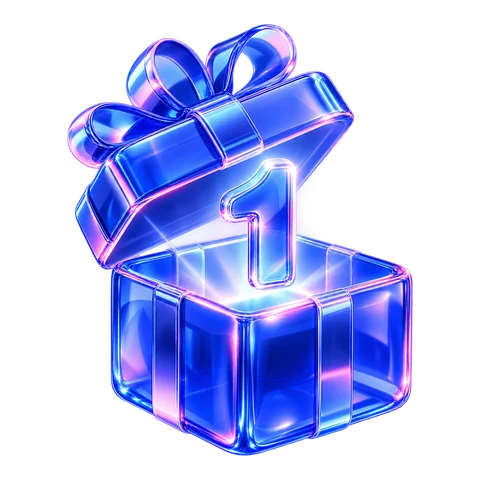
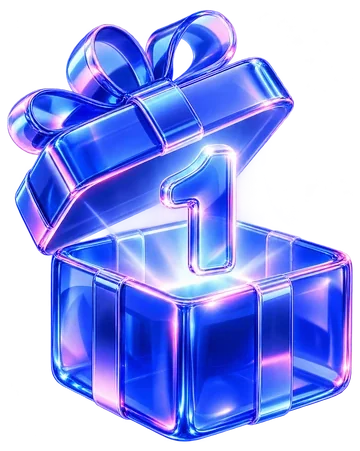
Opraviť viditeľnosť bočných kariet a zväčšiť 3D ikony (WebKit-safe)

diff --git a/public/app.css b/public/app.css
@@ -2064,8 +2064,8 @@ textarea {
    public/flow.js turns the ring a quarter turn on a click, an arrow key or a swipe. Without the script the four
    cards stand as a row; with reduced motion the turn is instant. */
 .offer {
-  --offer-w: clamp(300px, 24vw, 360px);
-  --offer-h: clamp(440px, 33vw, 480px);
+  --offer-w: clamp(320px, 27vw, 400px);
+  --offer-h: clamp(460px, 32vw, 500px);
   padding-top: clamp(64px, 7vw, 80px);
   background:
     radial-gradient(70% 56% at 50% 40%, var(--blue-soft) 0%, rgba(238, 240, 255, 0) 72%),
@@ -2104,7 +2104,6 @@ textarea {
 /* The ring's fixed height is only needed once the cards are absolutely placed in it. */
 .offer__stage--js .offer__ring {
   height: calc(var(--offer-h) + 40px);
-  perspective: 1500px;
 }
 
 .offer__track {
@@ -2120,18 +2119,25 @@ textarea {
   display: block;
 }
 
+/* Each deal has its own blue-violet hue; all stay in the same family. */
+.offer__card:nth-child(1) { --c1: #1024e0; --c2: #1d3df5; --c3: #2f6bff; }
+.offer__card:nth-child(2) { --c1: #1323d4; --c2: #1c2ef0; --c3: #5c27d6; }
+.offer__card:nth-child(3) { --c1: #1b1fd8; --c2: #3a2df0; --c3: #7a2be0; }
+.offer__card:nth-child(4) { --c1: #2a1fd0; --c2: #4a2ff0; --c3: #a92bb8; }
+
 .offer__card {
   position: relative;
   display: flex;
   flex-direction: column;
   min-height: var(--offer-h);
-  padding: 26px;
-  border-radius: 28px;
+  padding: 28px;
+  border-radius: 30px;
   color: #fff;
   background:
-    radial-gradient(130% 78% at 50% -12%, rgba(255, 255, 255, 0.24) 0%, rgba(255, 255, 255, 0) 55%),
-    radial-gradient(90% 70% at 100% 108%, rgba(255, 105, 140, 0.3) 0%, rgba(255, 105, 140, 0) 62%),
-    linear-gradient(158deg, #1323d4 0%, #1c2ef0 34%, #3a2df0 66%, #5c27d6 100%);
+    radial-gradient(130% 78% at 50% -12%, rgba(255, 255, 255, 0.26) 0%, rgba(255, 255, 255, 0) 55%),
+    radial-gradient(95% 72% at 100% 108%, rgba(255, 105, 150, 0.34) 0%, rgba(255, 105, 150, 0) 62%),
+    radial-gradient(80% 70% at 0% 104%, rgba(120, 90, 255, 0.28) 0%, rgba(120, 90, 255, 0) 62%),
+    linear-gradient(158deg, var(--c1, #1323d4) 0%, var(--c2, #1c2ef0) 40%, var(--c3, #5c27d6) 100%);
   box-shadow: 0 24px 56px -22px rgba(14, 22, 110, 0.45);
   overflow: hidden;
   cursor: pointer;
@@ -2144,7 +2150,7 @@ textarea {
   top: 50%;
   width: var(--offer-w);
   height: var(--offer-h);
-  will-change: transform, opacity, filter;
+  will-change: transform, opacity;
 }
 
 /* The hero in front glows a little brighter. */
@@ -2154,16 +2160,16 @@ textarea {
 
 .offer__badge {
   align-self: flex-start;
-  padding: 7px 16px;
+  padding: 9px 20px;
   border-radius: 999px;
-  background: rgba(255, 255, 255, 0.94);
+  background: rgba(255, 255, 255, 0.96);
   color: var(--blue-deep);
   font-family: var(--display);
   font-weight: 800;
-  font-size: 1.5rem;
+  font-size: 1.75rem;
   letter-spacing: -0.02em;
-  line-height: 1.15;
-  box-shadow: 0 10px 24px -10px rgba(8, 12, 90, 0.55);
+  line-height: 1;
+  box-shadow: 0 12px 28px -12px rgba(8, 12, 90, 0.6);
 }
 
 .offer__art {
@@ -2179,17 +2185,21 @@ textarea {
 .offer__art::before {
   content: '';
   position: absolute;
-  inset: -4%;
+  inset: -2%;
   border-radius: 50%;
-  background: radial-gradient(closest-side, rgba(255, 255, 255, 0.32), rgba(255, 255, 255, 0) 72%);
+  background:
+    radial-gradient(closest-side, rgba(255, 255, 255, 0.42), rgba(255, 255, 255, 0) 70%),
+    radial-gradient(closest-side, rgba(120, 160, 255, 0.3), rgba(120, 160, 255, 0) 78%);
 }
 
 .offer__img {
-  position: relative;
+  position: absolute;
+  inset: 0;
   z-index: 1;
-  width: clamp(180px, 66%, 250px);
-  height: auto;
-  filter: drop-shadow(0 30px 42px -18px rgba(6, 8, 60, 0.62));
+  width: 100%;
+  height: 100%;
+  object-fit: contain;
+  filter: drop-shadow(0 32px 46px -18px rgba(6, 8, 60, 0.6));
 }
 
 .offer__copy {
@@ -2199,10 +2209,10 @@ textarea {
 
 .offer__title {
   font-family: var(--display);
-  font-weight: 700;
-  font-size: clamp(1.5rem, 1.85vw, 1.8rem);
+  font-weight: 600;
+  font-size: clamp(1.5rem, 1.9vw, 1.9rem);
   line-height: 1.04;
-  letter-spacing: -0.02em;
+  letter-spacing: -0.025em;
   color: #fff;
   text-wrap: balance;
 }
@@ -2213,13 +2223,13 @@ textarea {
 
 .offer__title-accent {
   display: block;
-  margin-top: 0.1em;
-  font-size: 1.34em;
+  margin-top: 0.06em;
+  font-size: 1.55em;
   font-weight: 800;
   text-transform: uppercase;
-  letter-spacing: -0.01em;
-  line-height: 0.95;
-  color: #c7d5ff;
+  letter-spacing: -0.012em;
+  line-height: 0.9;
+  color: #bcd4ff;
 }
 
 .offer__text {
@@ -2313,8 +2323,8 @@ textarea {
 /* On a phone one dominant card sits in the middle; the neighbours peek from the edges. */
 @media (max-width: 720px) {
   .offer {
-    --offer-w: min(84vw, 340px);
-    --offer-h: clamp(392px, 104vw, 440px);
+    --offer-w: min(80vw, 340px);
+    --offer-h: clamp(410px, 108vw, 440px);
   }
   .offer__hint--desktop {
     display: none;

diff --git a/public/flow.js b/public/flow.js
@@ -81,12 +81,13 @@
   stage.classList.add('offer__stage--js')
 
   // The four places of the ring: 0 the front, 1 right, 2 the back, 3 left. x is the horizontal offset in card
-  // widths, s the scale, ry the tilt, o the opacity, z the stacking and f the brightness.
+  // widths, s the scale, o the opacity, z the stacking. The depth is a scale and a shadow, nothing 3D, so
+  // Chromium, Safari and Firefox all paint it alike.
   const PLACE = [
-    { x: 0, s: 1, ry: 0, o: 1, z: 40, f: 1 },
-    { x: 1, s: 0.84, ry: -18, o: 0.85, z: 30, f: 0.92 },
-    { x: 0, s: 0.72, ry: 0, o: 0, z: 10, f: 0.8 },
-    { x: -1, s: 0.84, ry: 18, o: 0.85, z: 30, f: 0.92 },
+    { x: 0, s: 1, o: 1, z: 40 },
+    { x: 0.96, s: 0.88, o: 0.9, z: 30 },
+    { x: 0, s: 0.78, o: 0, z: 10 },
+    { x: -0.96, s: 0.88, o: 0.9, z: 30 },
   ]
 
   // "Založenie s. r. o. zadarmo", the second card, opens in front.
@@ -98,10 +99,9 @@
     for (let i = 0; i < cards.length; i++) {
       const place = PLACE[((i - rotation) % 4 + 4) % 4]
       const card = cards[i]
-      card.style.transform = `translate(-50%, -50%) translateX(${(place.x * radius).toFixed(1)}px) rotateY(${place.ry}deg) scale(${place.s})`
+      card.style.transform = `translate(-50%, -50%) translateX(${(place.x * radius).toFixed(1)}px) scale(${place.s})`
       card.style.opacity = String(place.o)
       card.style.zIndex = String(place.z)
-      card.style.filter = place.f === 1 ? 'none' : `brightness(${place.f})`
       card.style.pointerEvents = place.o === 0 ? 'none' : ''
       card.setAttribute('aria-hidden', place.o === 0 ? 'true' : 'false')
       card.classList.toggle('offer__card--on', i === front)
@@ -110,7 +110,9 @@
   }
 
   const measure = () => {
-    radius = cards[0].offsetWidth * 0.86
+    // One card width of reach puts the side cards just outside the front card's edges, so the three cards
+    // stand together across most of the stage.
+    radius = cards[0].offsetWidth
     render()
   }
 

diff --git a/src/config.ts b/src/config.ts
@@ -218,6 +218,15 @@ export type ArtSlot =
 /** One of his glass objects, cut square at 960 and 480 px. */
 const glass = (name: string): Art => ({ src: `/art/${name}.webp`, alt: '', width: 960, height: 960, small: { src: `/art/${name}-480.webp`, width: 480 } })
 
+/** One of the four offer icons, cut to its glass with the transparent margins removed (not a square). */
+const offerGlass = (name: string, width: number, height: number, smallWidth: number): Art => ({
+  src: `/art/${name}.webp`,
+  alt: '',
+  width,
+  height,
+  small: { src: `/art/${name}-480.webp`, width: smallWidth },
+})
+
 /**
  * The pictures of the site: 3D glass icons he makes in ChatGPT, never realistic photographs (his word of
  * 13 October 2026, 01:52: "realistické fotky generovať nebudem, to vyzerá úboho"). All of them are the same
@@ -253,11 +262,11 @@ export const ART: Record<ArtSlot, Art | null> = {
   paperBank: glass('card'),
   paperEinvoice: glass('mail'),
   paperReturn: glass('deadline'),
-  /* The four deals of the offer band, uploaded 23 October 2026 (art-src/icons/offer-*.png). */
-  offerFirstMonth: glass('offer-first-month'),
-  offerCompanyFormation: glass('offer-company-formation'),
-  offerSwitch: glass('offer-switch'),
-  offerInvoices: glass('offer-invoices'),
+  /* The four deals of the offer band, uploaded 23 October 2026 (art-src/icons/offer-*.png), margins trimmed. */
+  offerFirstMonth: offerGlass('offer-first-month', 720, 899, 360),
+  offerCompanyFormation: offerGlass('offer-company-formation', 872, 898, 435),
+  offerSwitch: offerGlass('offer-switch', 898, 750, 449),
+  offerInvoices: offerGlass('offer-invoices', 796, 899, 400),
   founder: null,
 }
 

diff --git a/PROGRESS.md b/PROGRESS.md
@@ -2,17 +2,18 @@
 
 ## Nekonečný 3D kolotoč ponuky (Cline, 23. október 2026 CEST)
 
-Sekcia „Táto ponuka sa nedá odmietnuť“ je prestavaná z posúvateľného pásu na nekonečný kruhový kolotoč.
-Štyri karty stoja na virtuálnom kruhu: vpredu je hrdina presne v strede, po bokoch dve čitateľné karty,
-štvrtá je vzadu. `public/flow.js` (jediný skript) otáča kruh o štvrť otáčky na klik, šípku alebo potiahnutie
-(2.5D orbita: vodorovný posun, mierka, sklon), takže nikde nekončí ani nepreskakuje; desať klikov vľavo aj
-vpravo plynulo krúži. Na začiatku je vpredu „Založenie s. r. o. zadarmo“ (počítadlo „2 / 4“). Každá karta je
-sýty modrofialový sklenený panel s bielym „0 €“ odznakom, veľkou 3D ikonou (55–70 % karty) a plagátovým
-názvom, kde je „zadarmo“ veľké a svetlomodré. Šípky, počítadlo a nápoveda sú pod kruhom, potom CTA. Sekcia
-nemá okraj a biely–modrý–biely gradient ju plynulo prepája s hero aj mesiacom, bez veľkých prázdnych blokov.
-Bez skriptu stoja štyri karty v rade; pri `prefers-reduced-motion` je otočenie okamžité. Overené: check,
-1 494 unit + 12 deployment, 2 272 runtime, UI sada 1440/390/320 px a Playwright sonda stredu/rotácie na
-1440/1280/768/390. Bez zmeny schémy.
+Sekcia „Táto ponuka sa nedá odmietnuť“ je nekonečný kruhový kolotoč štyroch kariet: vpredu je hrdina presne
+v strede, po bokoch dve plne viditeľné karty, štvrtá vzadu. `public/flow.js` (jediný skript) otáča kruh o štvrť
+otáčky na klik, šípku, potiahnutie či klávesnicu — 2.5D orbita len z vodorovného posunu, mierky a tieňa (bez
+`rotateY`/`perspective`/`filter`, ktoré v Safari skrývali bočné karty), takže nikde nekončí ani nepreskakuje.
+Bočné karty stoja tesne vedľa hlavnej (dosah = jedna šírka karty), zostava zaberá ~76 % šírky a tri panely
+(≈342 px) sú súčasne viditeľné; na mobile jedna karta a výrez suseda. Vpredu otvára „Založenie s. r. o. zadarmo“
+(počítadlo „2 / 4“). Každá karta je sýty modrofialový sklenený panel s vlastným odtieňom, bielym „0 €“ odznakom,
+veľkou 3D ikonou (okraje orezané na sklo, `object-fit: contain`) a plagátovým názvom s veľkým svetlomodrým
+„ZADARMO“. Šípky, počítadlo a nápoveda sú pod kruhom, potom CTA; sekcia je bez okraja, biely–modrý–biely
+gradient ju prepája s hero aj mesiacom. Overené v Chromium aj WebKit (Playwright): stred = 0 px, bočné karty
+viditeľné a hit-testovateľné, rotácia ±10 klikov, 1440/1280/1920/768/390/320, bez pretečenia. check, 1 494 unit
++ 12 deployment, 2 272 runtime, UI sada 1440/390/320 px. Bez zmeny schémy.
 
 ## Kalkulačka odvodov a dane SZČO (Cline, 23. október 2026 CEST)
 

diff --git a/CLAUDE.md b/CLAUDE.md
@@ -3115,14 +3115,16 @@ invented), people (his real photo, an accountant with a name) and a finished thi
   invoice in the top corner, and none below 380 px. The opening arrives once (words, card, glass) on load.
 - The offer the visitor cannot refuse (`.offer`, "Prečo je Firmony výhodné / Táto ponuka sa nedá odmietnuť"):
   four cards on a virtual ring that turns without end. The card in front is the hero in the middle, one card
-  each side stays visible and readable, the fourth hides behind it. `public/flow.js` (the page's one script)
+  each side stands beside it fully visible, the fourth hides behind. `public/flow.js` (the page's one script)
   turns the ring a quarter turn on a click, an arrow key or a swipe — a 2.5D orbit of horizontal offset, scale
-  and a slight tilt, so it never ends and never jumps; "Založenie s. r. o. zadarmo" opens in front and the count
-  reads "2 / 4". Each card is a rich blue-violet glass panel with a white "0 €" badge, one of his four 3D glass
-  objects large in its middle (55–70 % of the card) and a poster title whose "zadarmo" is set big and light blue.
-  Arrows, a count and a hint sit under the ring, the CTA follows. Without the script the four cards stand as a
-  row; with reduced motion the turn is instant. The section has no border and fades white–blue–white into the
-  sections around it.
+  and shadow, no 3D rotation (Safari hid the side cards under `rotateY`/`perspective`/`filter`), so it never
+  ends and never jumps; the side cards sit one card width from the front, the three span about 76 % of the
+  stage. "Založenie s. r. o. zadarmo" opens in front and the count reads "2 / 4". Each card is a rich
+  blue-violet glass panel (its own hue by `nth-child`) with a white "0 €" badge, one of his four 3D glass
+  objects large in its middle (the transparent margins are trimmed in the art, `object-fit: contain`) and a
+  poster title whose "zadarmo" is set big and light blue. Arrows, a count and a hint sit under the ring, the
+  CTA follows. Without the script the four cards stand as a row; with reduced motion the turn is instant. The
+  section has no border and fades white–blue–white into the sections around it.
 - One month (`.flow`, "Vy pošlete doklady. My urobíme zvyšok."): a white card of October as CloudTalk shows a
   feed (head, five rows each with its icon in a tile, title, amount and a green pill, and "Všetko zaúčtované")
   on a light panel. Where scroll timelines exist and the screen is at least 700 px high, the track is 235vh and
